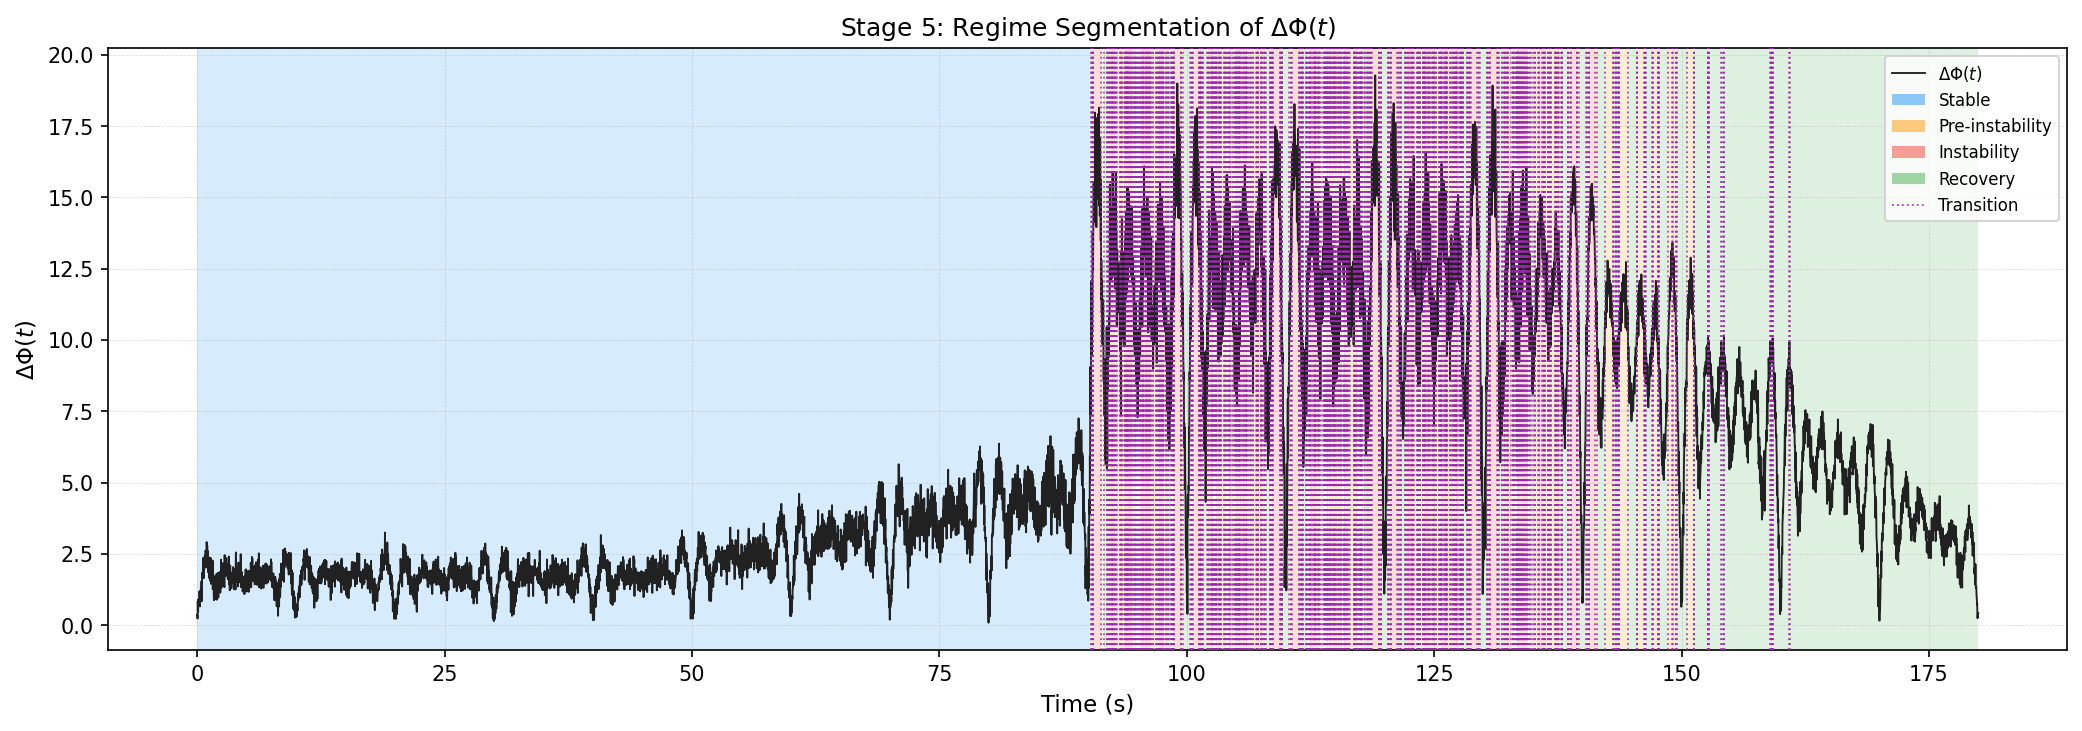
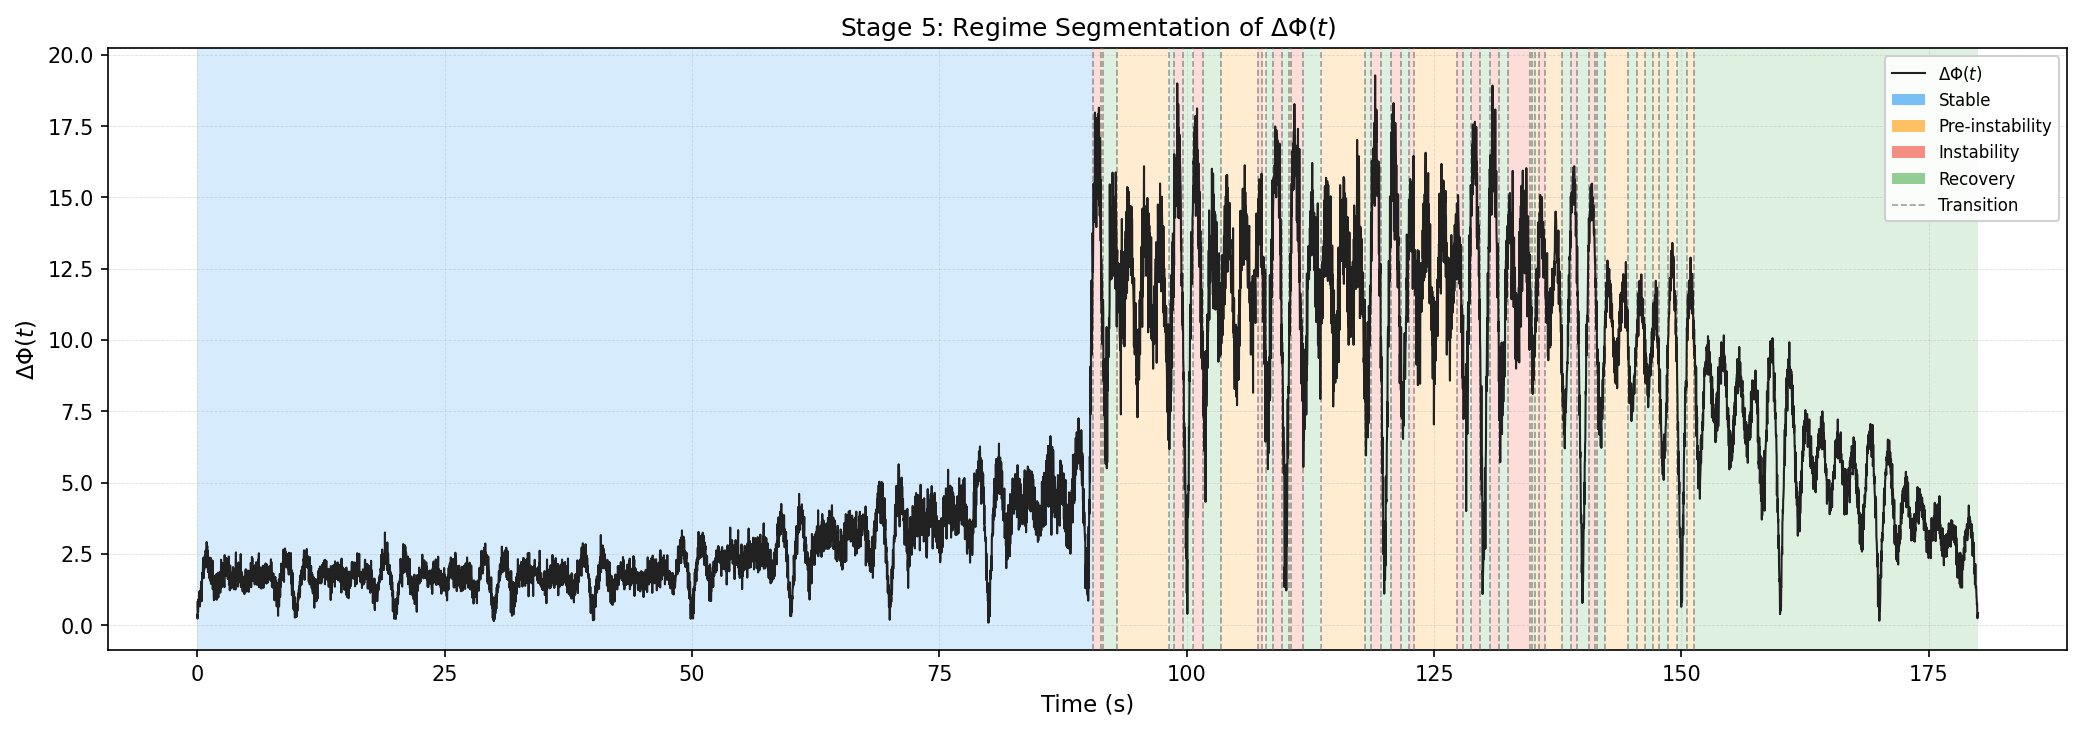
Add min-dwell stability to detect_regimes and regenerate Stage 5 figures
Agent-Logs-Url: https://github.com/dfeen87/Cell-DNA-Dynamics/sessions/73a94cea-919c-44c1-9c6f-e89a944478de

Changed region(s): [[0.4995, 0.0602, 0.8742, 0.9029], [0.4059, 0.6922, 0.4371, 0.7223], [0.3122, 0.7524, 0.3434, 0.7825]]

diff --git a/src/stage5_regime_transitions/generate_figures.py b/src/stage5_regime_transitions/generate_figures.py
@@ -9,9 +9,9 @@ Generates two figures using the Stage 5 operators:
    - Horizontal dashed lines for θ_low and θ_high thresholds
 
 2. figures/stage5_regime_transitions/regime_segmentation.png
-   - ΔΦ(t) curve over time
-   - Shaded regions for each regime (stable, pre-instability, instability, recovery)
-   - Vertical markers at each regime transition
+   - Broad colored regime bands (stable / pre-instability / instability / recovery)
+   - Clean vertical boundary lines at regime transitions
+   - ΔΦ(t) overlaid as a single curve
 
 Reproducibility settings:
     seed = 0, DPI = 150, figure sizes as specified per figure below.
@@ -47,13 +47,14 @@ SEED = 0
 DPI = 150
 np.random.seed(SEED)
 
-# ── Consistent regime colour palette ─────────────────────────────────────────
+# ── Consistent regime colour palette (Stage 2 / Stage 3 compatible) ──────────
 REGIME_COLORS = {
     "stable":          "#2196F3",   # blue
     "pre-instability": "#FF9800",   # orange
     "instability":     "#F44336",   # red
     "recovery":        "#4CAF50",   # green
 }
+REGIME_ALPHA = 0.18
 
 # ── Paths ─────────────────────────────────────────────────────────────────────
 _DATA_PATH = os.path.join(_REPO_ROOT, "data", "synthetic", "eic_timeseries.csv")
@@ -125,45 +126,44 @@ def plot_regime_segmentation(
     regime_labels,
     out_path: str,
 ) -> None:
-    """Plot ΔΦ(t) with shaded regime regions and transition markers and save."""
+    """Plot broad regime bands with ΔΦ(t) overlaid and transition markers."""
     intervals = regime_shading_intervals(regime_labels)
     transitions = extract_transition_events(regime_labels)
 
     fig, ax = plt.subplots(figsize=(14, 5))
 
-    # ── Shaded regime spans ───────────────────────────────────────────────────
+    # ── Broad colored regime bands ────────────────────────────────────────────
+    dt_half = (t[1] - t[0]) / 2
     for iv in intervals:
         t_start = t[iv.start]
-        # Use half-step extension at the right edge to avoid gaps
-        t_end = t[iv.stop - 1] + (t[1] - t[0]) / 2 if iv.stop < len(t) else t[-1]
+        t_end = t[iv.stop - 1] + dt_half if iv.stop < len(t) else t[-1] + dt_half
         ax.axvspan(
             t_start,
             t_end,
-            alpha=0.18,
+            alpha=REGIME_ALPHA,
             color=REGIME_COLORS.get(iv.regime, "#CCCCCC"),
             linewidth=0,
         )
 
-    # ── ΔΦ(t) curve ──────────────────────────────────────────────────────────
+    # ── Clean boundary lines at transitions ──────────────────────────────────
+    for ev in transitions:
+        ax.axvline(
+            t[ev.index],
+            color="#616161",
+            linewidth=0.8,
+            linestyle="--",
+            alpha=0.6,
+            zorder=3,
+        )
+
+    # ── ΔΦ(t) overlaid as a single curve ─────────────────────────────────────
     ax.plot(
         t, delta_phi,
         color="#212121",
-        linewidth=0.9,
-        zorder=3,
+        linewidth=1.0,
+        zorder=4,
         label=r"$\Delta\Phi(t)$",
     )
-
-    # ── Transition markers ────────────────────────────────────────────────────
-    for ev in transitions:
-        x_trans = t[ev.index]
-        ax.axvline(
-            x_trans,
-            color="#9C27B0",
-            linewidth=0.9,
-            linestyle=":",
-            alpha=0.8,
-            zorder=4,
-        )
 
     ax.set_xlabel("Time (s)", fontsize=11)
     ax.set_ylabel(r"$\Delta\Phi(t)$", fontsize=11)
@@ -173,33 +173,35 @@ def plot_regime_segmentation(
     )
 
     # ── Legend ────────────────────────────────────────────────────────────────
+    present_regimes = set(regime_labels)
     regime_patches = [
         Patch(
             facecolor=REGIME_COLORS[r],
-            alpha=0.5,
+            alpha=0.6,
             label=r.capitalize(),
         )
         for r in ["stable", "pre-instability", "instability", "recovery"]
-        if r in set(regime_labels)
+        if r in present_regimes
     ]
     transition_handle = Line2D(
         [0], [0],
-        color="#9C27B0",
-        linewidth=0.9,
-        linestyle=":",
-        alpha=0.8,
+        color="#616161",
+        linewidth=0.8,
+        linestyle="--",
+        alpha=0.6,
         label="Transition",
     )
     delta_phi_handle = Line2D(
         [0], [0],
         color="#212121",
-        linewidth=0.9,
+        linewidth=1.0,
         label=r"$\Delta\Phi(t)$",
     )
     ax.legend(
         handles=[delta_phi_handle] + regime_patches + [transition_handle],
         loc="upper right",
         fontsize=8,
+        framealpha=0.9,
     )
     ax.grid(True, linestyle="--", linewidth=0.4, alpha=0.4)
 
@@ -220,8 +222,8 @@ def main() -> None:
     # ── 2. Compute ΔΦ(t) ─────────────────────────────────────────────────────
     delta_phi = compute_delta_phi(series)
 
-    # ── 3. Detect regimes ─────────────────────────────────────────────────────
-    regime_result = detect_regimes(delta_phi)
+    # ── 3. Detect regimes with minimum dwell-time stability (10 samples) ──────
+    regime_result = detect_regimes(delta_phi, min_dwell=10)
 
     # ── 4. Plot ΔΦ(t) with threshold lines ───────────────────────────────────
     plot_delta_phi_thresholds(

diff --git a/src/stage5_regime_transitions/detect_regimes.py b/src/stage5_regime_transitions/detect_regimes.py
@@ -48,11 +48,77 @@ sys.path.insert(0, os.path.join(os.path.dirname(__file__), "..", ".."))
 from src.core.models import RegimeLabels
 
 
+def _enforce_min_dwell(labels: np.ndarray, min_dwell: int) -> np.ndarray:
+    """Merge regime intervals shorter than *min_dwell* samples into neighbours.
+
+    Iteratively finds the first contiguous run whose length is less than
+    *min_dwell* and reassigns it to match the longer of its two adjacent runs
+    (left neighbour wins a tie).  The loop terminates once all runs meet the
+    minimum length requirement.
+
+    Parameters
+    ----------
+    labels : np.ndarray, shape (T,), dtype object
+        Per-time-point regime label array to stabilise in-place copy.
+    min_dwell : int
+        Minimum number of consecutive samples required to keep a regime run.
+        Values ≤ 1 disable the filter.
+
+    Returns
+    -------
+    np.ndarray
+        A new label array with all runs at least *min_dwell* samples long.
+    """
+    if min_dwell <= 1:
+        return labels.copy()
+
+    result = labels.copy()
+
+    while True:
+        # Build run-length encoding: list of [regime, start, stop].
+        runs: list[list] = []
+        cur = result[0]
+        start = 0
+        for i in range(1, len(result)):
+            if result[i] != cur:
+                runs.append([cur, start, i])
+                cur = result[i]
+                start = i
+        runs.append([cur, start, len(result)])
+
+        # Find the first run that is too short.
+        short_idx: int | None = None
+        for k, (_, s, e) in enumerate(runs):
+            if (e - s) < min_dwell:
+                short_idx = k
+                break
+
+        if short_idx is None:
+            break  # All runs satisfy the minimum dwell time.
+
+        k = short_idx
+        left_len = (runs[k - 1][2] - runs[k - 1][1]) if k > 0 else -1
+        right_len = (runs[k + 1][2] - runs[k + 1][1]) if k < len(runs) - 1 else -1
+
+        if left_len >= right_len and k > 0:
+            # Absorb into the left neighbour.
+            result[runs[k][1] : runs[k][2]] = runs[k - 1][0]
+        elif k < len(runs) - 1:
+            # Absorb into the right neighbour.
+            result[runs[k][1] : runs[k][2]] = runs[k + 1][0]
+        else:
+            # Single-run array; nothing to merge.
+            break
+
+    return result
+
+
 def detect_regimes(
     delta_phi: np.ndarray,
     q_low: float = 0.75,
     q_high: float = 0.90,
     detect_recovery: bool = True,
+    min_dwell: int = 10,
 ) -> RegimeLabels:
     """Segment ΔΦ(t) into regime labels following the manuscript's rules.
 
@@ -77,6 +143,14 @@ def detect_regimes(
     the system's return toward the reference stability region (Section 6:
     "cellular recovery trajectories").
 
+    Minimum dwell-time stabilisation (*min_dwell* > 1):
+    After the initial per-sample labelling and optional recovery detection,
+    any contiguous run of identical labels shorter than *min_dwell* samples
+    is merged into its longer adjacent run.  This prevents the classifier
+    from switching regimes on single-sample noise and ensures the
+    segmentation output contains broad, stable regime intervals rather than
+    rapid oscillations around threshold boundaries.
+
     Parameters
     ----------
     delta_phi : array_like, shape (T,)
@@ -93,6 +167,10 @@ def detect_regimes(
         Whether to apply the optional recovery-labelling post-processing
         step.  Set to ``False`` to obtain the three-regime version
         (stable / pre-instability / instability only).
+    min_dwell : int, default 10
+        Minimum number of consecutive samples required to retain a regime
+        run.  Any run shorter than this value is absorbed into its longer
+        neighbour.  Set to 1 to disable minimum-dwell-time stabilisation.
 
     Returns
     -------
@@ -167,6 +245,15 @@ def detect_regimes(
             post_instability = np.arange(first_instability + 1, len(labels))
             recovery_mask = labels[post_instability] == "stable"
             labels[post_instability[recovery_mask]] = "recovery"
+
+    # ------------------------------------------------------------------
+    # 4. Minimum dwell-time stabilisation.
+    #
+    #    Merge short regime runs to prevent the classifier from toggling
+    #    on single-sample threshold crossings due to measurement noise.
+    # ------------------------------------------------------------------
+    if min_dwell > 1:
+        labels = _enforce_min_dwell(labels, min_dwell)
 
     return RegimeLabels(
         labels=labels,
